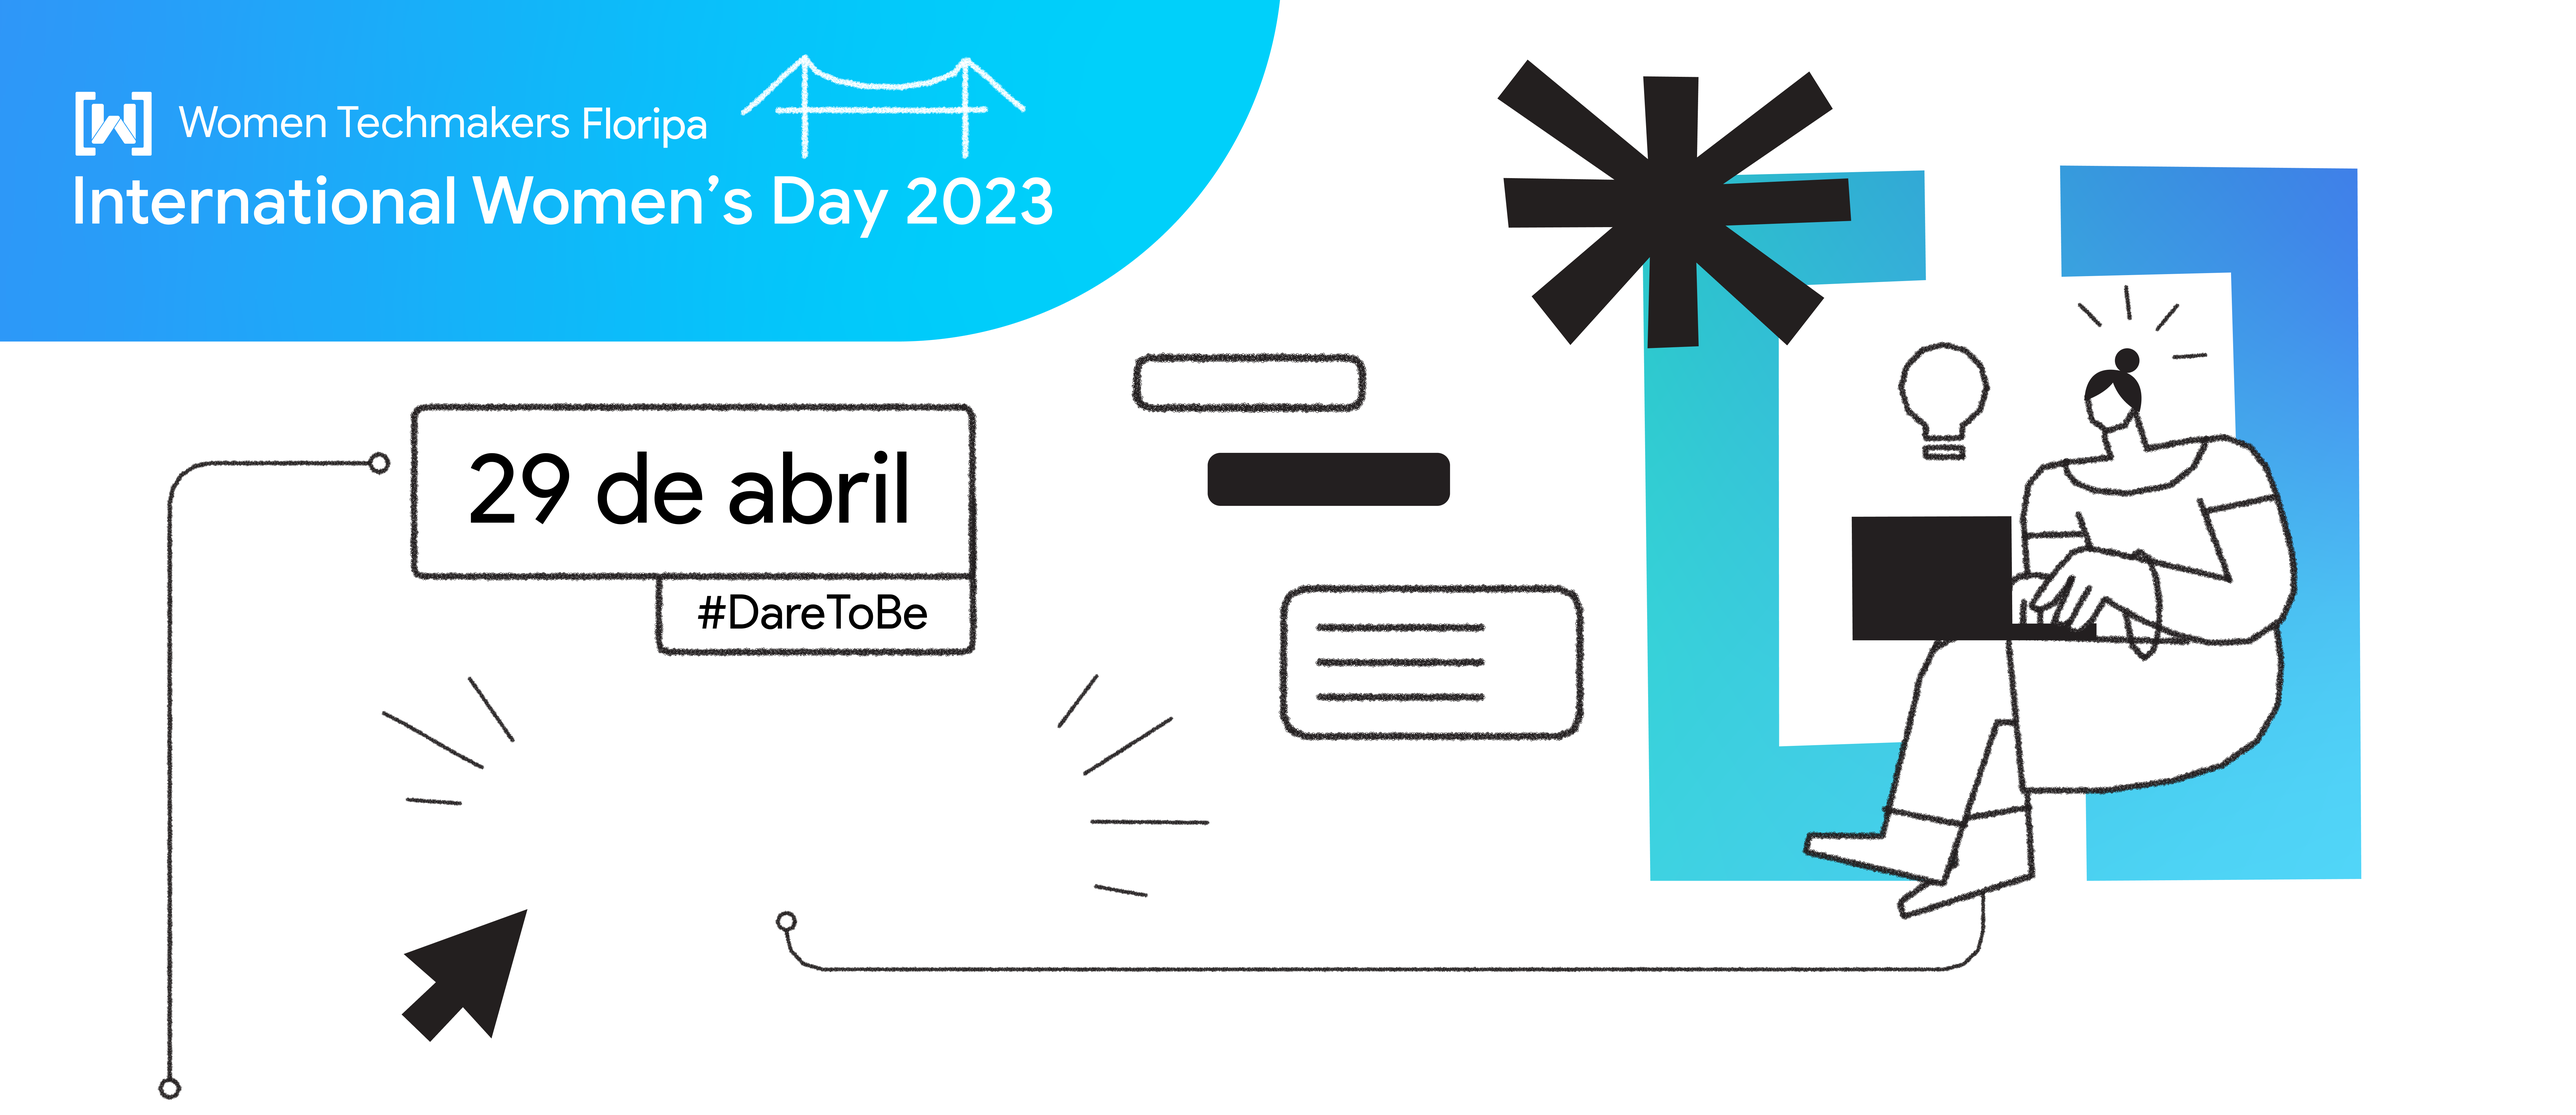
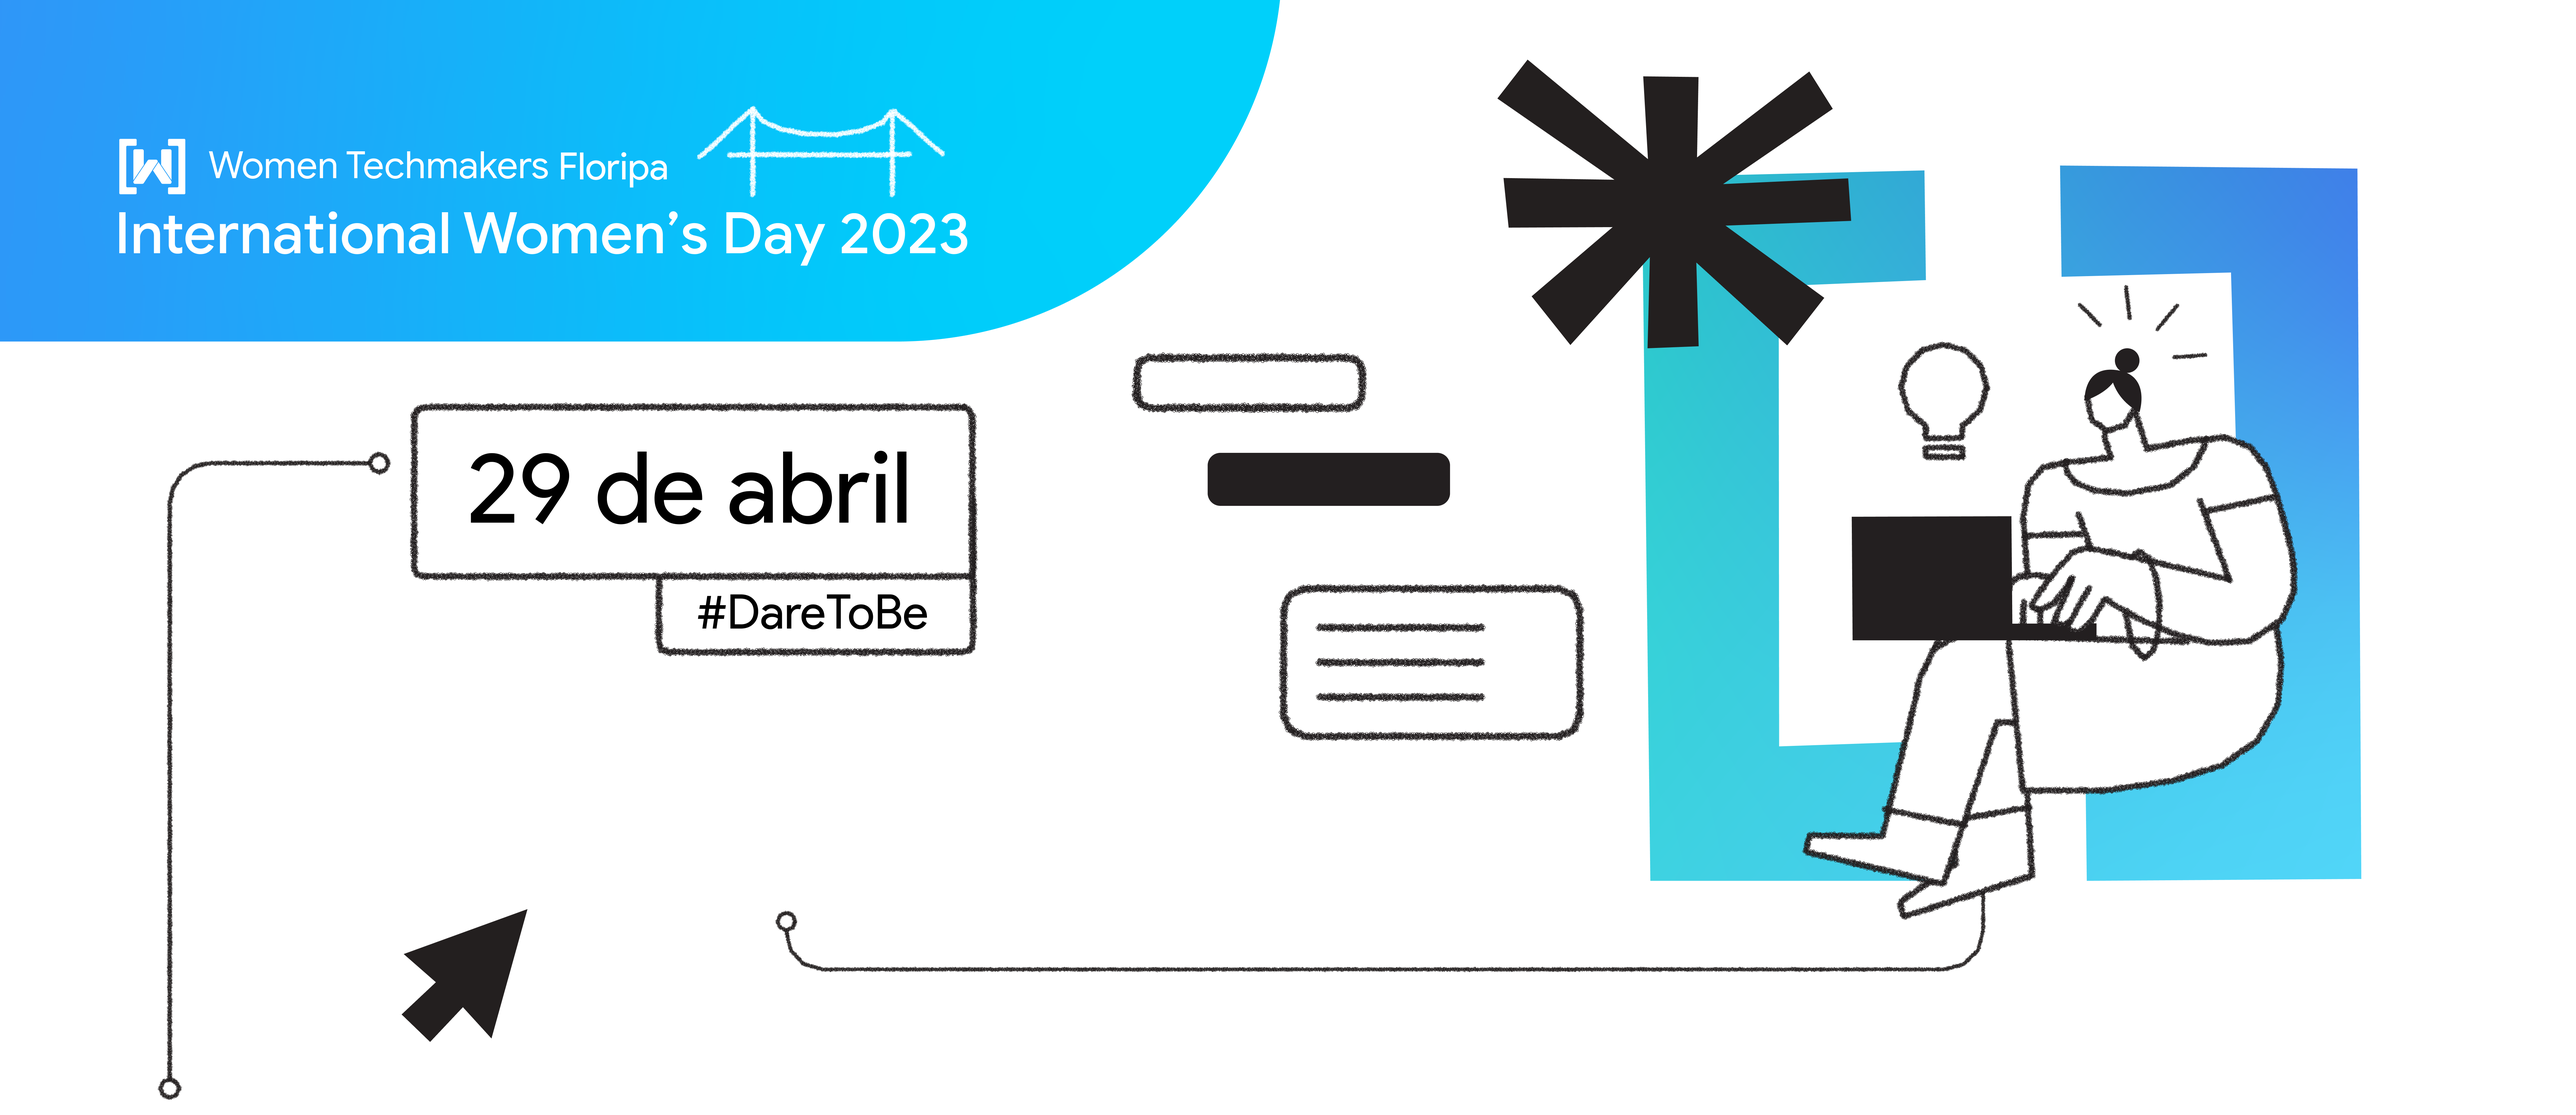
Vários ajustes

Changed region(s): [[0.0312, 0.0624, 0.4062, 0.2494], [0.4375, 0.717, 0.4688, 0.7482], [0.1562, 0.6547, 0.1875, 0.6859]]

diff --git a/src/app/home/home.component.html b/src/app/home/home.component.html
@@ -3,8 +3,11 @@
   <!--Intro Section-->
   <section class="view intro-1">
     <div class="full-bg-img flex-center">
+      <img class="banner-desktop" src="../../../assets/img/banner.png">
+      <img class="banner-mobile" src="../../../assets/img/banner-mobile.png">
       <div class="container text-center banner-title">
-        <a *ngIf="config?.ticketURL" target="_blank" rel="noopener" [href]="config?.ticketURL" class="btn btn-primary btn-lg" rel="nofollow">Garanta seu ingresso agora</a>
+        <a *ngIf="config?.ticketURL" target="_blank" rel="noopener" [href]="config?.ticketURL"
+          class="btn btn-primary btn-lg" rel="nofollow">Garanta seu ingresso agora</a>
       </div>
     </div>
   </section>
@@ -16,24 +19,35 @@
 
   <!--Section: About-->
   <section class="text-center">
-    <p> O <strong>{{ config?.eventName }}</strong> será um evento presencial da área de tecnologia que ocorrerá em Florianópolis no dia <strong>29/04/2023</strong>. 
-      <br/>
+    <p> O <strong>{{ config?.eventName }}</strong> será um evento presencial da área de tecnologia que ocorrerá em
+      Florianópolis no dia <strong>29/04/2023</strong>.
+      <br />
       As pessoas organizadoras envolvidas são dos capítulos: {{ config?.groupName}}.
-      <br/>
-      Nós da organização, temos o compromisso de realizar um evento diverso, inclusivo e que será acessível a todos os públicos. 
-      <br/>
-      Teremos um <a target="_blank" rel="noopener" href="http://gdg.rocks/codigodeconduta">código de conduta</a> a ser seguido, com zero tolerância às práticas de racismo, sexismo, capacitismo ou qualquer discriminação de gênero e sexualidade. &nbsp;&nbsp;&nbsp;&nbsp;
+      <br />
+      Nós da organização, temos o compromisso de realizar um evento diverso, inclusivo e que será acessível a todos os
+      públicos.
+      <br />
+      Teremos um <a routerLink="/code-of-conduct">código de conduta</a> a ser seguido, com zero tolerância às práticas de racismo,
+      sexismo, capacitismo ou qualquer discriminação de gênero e sexualidade. &nbsp;&nbsp;&nbsp;&nbsp;
     </p>
   </section>
-  <section class="text-center" *ngIf="config?.eventGoogle || config?.eventFacebook || config?.eventTwitter || config?.eventInstagram">
+  <section class="text-center"
+    *ngIf="config?.eventGoogle || config?.eventFacebook || config?.eventTwitter || config?.eventInstagram">
     <!--Social buttons-->
     <div class="social-section mb-3">
       <h5 class="title mt-3 mb-4">Nos siga nas redes sociais para mais atualizações</h5>
       <ul>
-        <li *ngIf="config?.eventGoogle"><a class="btn-social-all" href="https://plus.google.com/{{ config?.eventGoogle }}" title="Google+" target="_blank" rel="noopener"><i class="fa fa-google-plus"></i></a></li>
-        <li *ngIf="config?.eventFacebook"><a class="btn-social-all" href="https://www.facebook.com/{{ config?.eventFacebook }}" title="Facebook" target="_blank" rel="noopener"><i class="fa fa-facebook"></i></a></li>
-        <li *ngIf="config?.eventTwitter"><a class="btn-social-all" href="https://twitter.com/{{ config?.eventTwitter }}" title="Twitter" target="_blank" rel="noopener"><i class="fa fa-twitter"></i></a></li>
-        <li *ngIf="config?.eventInstagram"><a class="btn-social-all" href="https://www.instagram.com/{{ config?.eventInstagram }}" title="Instagram" target="_blank" rel="noopener"><i class="fa fa-instagram"></i></a></li>
+        <li *ngIf="config?.eventGoogle"><a class="btn-social-all"
+            href="https://plus.google.com/{{ config?.eventGoogle }}" title="Google+" target="_blank" rel="noopener"><i
+              class="fa fa-google-plus"></i></a></li>
+        <li *ngIf="config?.eventFacebook"><a class="btn-social-all"
+            href="https://www.facebook.com/{{ config?.eventFacebook }}" title="Facebook" target="_blank"
+            rel="noopener"><i class="fa fa-facebook"></i></a></li>
+        <li *ngIf="config?.eventTwitter"><a class="btn-social-all" href="https://twitter.com/{{ config?.eventTwitter }}"
+            title="Twitter" target="_blank" rel="noopener"><i class="fa fa-twitter"></i></a></li>
+        <li *ngIf="config?.eventInstagram"><a class="btn-social-all"
+            href="https://www.instagram.com/{{ config?.eventInstagram }}" title="Instagram" target="_blank"
+            rel="noopener"><i class="fa fa-instagram"></i></a></li>
       </ul>
     </div>
     <!--/.Social buttons-->
@@ -46,13 +60,17 @@
   <!--Section: Featured Speakers-->
   <section class="section team-section" *ngIf="(speakers$ | async)?.length > 0 && speakers$ | async as speakers">
     <div class="row text-center">
-      <div *ngFor="let speaker of speakers" class="col-lg-3 col-md-6 mb-r" style="padding-left: 40px; padding-right: 40px; margin: 0 auto;">
+      <div *ngFor="let speaker of speakers" class="col-lg-3 col-md-6 mb-r"
+        style="padding-left: 40px; padding-right: 40px; margin: 0 auto;">
         <div class="avatar" title="{{ speaker.name }}" alt="{{ speaker.name }}">
-          <img *ngIf="!speaker.photoURL" class="rounded-circle z-depth-1" style="background-image: url('../../../assets/img/user-default.png')">
-          <img *ngIf="speaker.photoURL" class="rounded-circle z-depth-1" [ngStyle]="{'background-image': 'url(' + speaker.photoURL + ')'}">
+          <img *ngIf="!speaker.photoURL" class="rounded-circle z-depth-1"
+            style="background-image: url('../../../assets/img/user-default.png')">
+          <img *ngIf="speaker.photoURL" class="rounded-circle z-depth-1"
+            [ngStyle]="{'background-image': 'url(' + speaker.photoURL + ')'}">
         </div>
         <h4><span [innerHTML]="speaker.name"></span></h4>
-        <h6><span [innerHTML]="speaker.title"></span><br /><strong *ngIf="speaker.company">@&nbsp;<span [innerHTML]="speaker.company"></span></strong></h6>
+        <h6><span [innerHTML]="speaker.title"></span><br /><strong *ngIf="speaker.company">@&nbsp;<span
+              [innerHTML]="speaker.company"></span></strong></h6>
       </div>
     </div>
   </section>
@@ -70,7 +88,10 @@
         <p [innerHTML]="config?.venueDescription"></p>
       </div>
       <div class="col-md-6">
-        <iframe src="https://www.google.com/maps/embed?pb=!1m18!1m12!1m3!1d3539.007531600082!2d-48.51678368543114!3d-27.50014122458118!2m3!1f0!2f0!3f0!3m2!1i1024!2i768!4f13.1!3m3!1m2!1s0x9527468b52090801%3A0xb067ed420bbae02b!2sFaculdade%20Cesusc%20(Sede%20SC%20401)!5e0!3m2!1spt-BR!2sbr!4v1679958377031!5m2!1spt-BR!2sbr" width="600" height="450" style="border:0;" allowfullscreen="" loading="lazy" referrerpolicy="no-referrer-when-downgrade"></iframe>
+        <iframe
+          src="https://www.google.com/maps/embed?pb=!1m18!1m12!1m3!1d3539.007531600082!2d-48.51678368543114!3d-27.50014122458118!2m3!1f0!2f0!3f0!3m2!1i1024!2i768!4f13.1!3m3!1m2!1s0x9527468b52090801%3A0xb067ed420bbae02b!2sFaculdade%20Cesusc%20(Sede%20SC%20401)!5e0!3m2!1spt-BR!2sbr!4v1679958377031!5m2!1spt-BR!2sbr"
+          width="100%" height="450" style="border:0;" allowfullscreen="" loading="lazy"
+          referrerpolicy="no-referrer-when-downgrade"></iframe>
       </div>
     </div>
   </section>
@@ -85,11 +106,12 @@
     <h5>Seja legal, respeite e colabore com as pessoas.</h5>
     <p>{{ config?.eventName }} é um evento dedicado a prover um ambiente livre de assédios para todes.</p>
     <p class="pb-5">
-      Antes de participar, reveja o <a href="http://gdg.rocks/codigodeconduta" target="_blank" rel="noopener">Código
+      Antes de participar, reveja o <a routerLink="/code-of-conduct">Código
         de conduta do {{ config?.eventName }}</a>.
       <br />Este Código de Conduta se aplica a todes que irão participar, palestrar, organizar fornecer ou se envolver
       de qualquer forma ao {{ config?.eventName }}.
-      <br />Por favor <a href="mailto:{{ config?.eventEmail }}?subject=Code of Conduct - {{ config?.eventName }}" target="_blank" rel="noopener">entre em contato conosco</a> se tiver alguma dúvida.
+      <br />Por favor <a href="mailto:{{ config?.eventEmail }}?subject=Code of Conduct - {{ config?.eventName }}"
+        target="_blank" rel="noopener">entre em contato conosco</a> se tiver alguma dúvida.
     </p>
   </div>
   <!--Section: CoC-->
@@ -101,7 +123,8 @@
   <!--Section: Pricing-->
   <section class="section" *ngIf="(tickets$ | async)?.length > 0 && tickets$ | async as tickets">
     <div class="row pt-3">
-      <div class="mb-r" *ngFor="let ticket of tickets; let i = index;" [ngClass]="tickets.length > 3 ? 'col-lg-3' : 'col-lg-4'" style="padding: 20px 40px; margin: 0 auto;">
+      <div class="mb-r" *ngFor="let ticket of tickets; let i = index;"
+        [ngClass]="tickets.length > 3 ? 'col-lg-3' : 'col-lg-4'" style="padding: 20px 40px; margin: 0 auto;">
         <div class="card" *ngIf="ticket.active">
           <div class="card-header white-text text-center" [ngClass]="styles[i]">
             <h1 class="dollar">{{ ticket.price }}</h1>
@@ -140,7 +163,8 @@
                 &nbsp;
               </span>
               <div class="text-center ticket-button">
-                <a target="_blank" rel="noopener" [href]="config?.ticketURL" class="btn btn-primary waves-light" rel="nofollow">Buy Ticket</a>
+                <a target="_blank" rel="noopener" [href]="config?.ticketURL" class="btn btn-primary waves-light"
+                  rel="nofollow">Buy Ticket</a>
               </div>
             </div>
           </div>
@@ -149,7 +173,7 @@
     </div>
 
   </section>
-  <!--/Section: Pricing-->  
+  <!--/Section: Pricing-->
   <div class="divider-new pt-5" *ngIf="(sponsors$ | async)?.length > 0">
     <h2 class="h2-responsive">Patrocínio</h2>
   </div>
@@ -167,7 +191,9 @@
           <ng-container *ngIf="level.id === sponsor.level">
             <span class="col-md-6" style="padding: 20px 40px; margin: 0 auto;">
               <a [href]="sponsor.websiteLink" target="_blank" rel="noopener">
-                <img [src]="sponsor.logoURL" class="sponsor-img" [ngStyle]="{'width': level.rank == 1 ? '400px' : level.rank == 2 ? '325px' : level.rank == 3 ? '240px' : level.rank == 4 ? '220px' : '160px' }"  title="{{ sponsor.name }}" alt="{{ sponsor.name }}" />
+                <img [src]="sponsor.logoURL" class="sponsor-img"
+                  [ngStyle]="{'width': level.rank == 1 ? '400px' : level.rank == 2 ? '325px' : level.rank == 3 ? '240px' : level.rank == 4 ? '220px' : '160px' }"
+                  title="{{ sponsor.name }}" alt="{{ sponsor.name }}" />
               </a>
             </span>
           </ng-container>

diff --git a/src/styles.scss b/src/styles.scss
@@ -2,21 +2,32 @@
 @import "./styles/delorean.scss";
 // @import "./styles/loading.scss";
 
-.intro-1 {
-  background: url("assets/img/banner-mobile.png") no-repeat;
-  background-size: cover;
-  height: 490px;
+.full-bg-img img{
+  width: 100%;
+}
 
-  @media screen and (min-width: 768px) {
-    background: url("assets/img/banner.png") no-repeat;
-    background-size: contain;
-    height: 40vh;
+.btn-lg{
+  padding: 1.2rem !important;
+}
+
+.intro-1{
+  top: 40px;
+}
+
+@media(max-width: 767px){
+  .banner-desktop{
+    display: none !important;
   }
+}
 
-  @media screen and (min-width: 1028px) {
-    background: url("assets/img/banner.png") no-repeat center center;
-    background-size: cover;
-    height: 100vh;
+@media(min-width: 767px){
+  .banner-mobile{
+    display: none !important;
+  }
+  
+  .container.text-center.banner-title{
+    text-align: left !important;
+    left: 22%;
   }
 }
 
@@ -35,17 +46,10 @@ body {
 
 .divider-new:before,
 .divider-new:after {
-  background-size: cover !important;
-
-  background: linear-gradient(
-    90deg,
-    rgba(204, 0, 0, 1) 0%,
-    rgba(215, 66, 6, 1) 20%,
-    rgba(227, 140, 12, 1) 40%,
-    rgba(238, 205, 17, 1) 60%,
-    rgba(21, 255, 40, 1) 80%,
-    rgba(21, 89, 255, 1) 100%
-  ) !important;
+  height: 3px !important;
+  background-size: contain !important;
+  background-image: url("assets/img/line.png") !important;
+  background-color: #fff !important;
 }
 
 .event-date {
@@ -56,14 +60,14 @@ body {
 }
 .banner-title {
   position: absolute;
-  bottom: 85px;
+  bottom: 55px;
 
   @media screen and (min-width: 768px) {
     bottom: 30px;
   }
 
   @media screen and (min-width: 1028px) {
-    bottom: 125px;
+    bottom: 22%;
   }
 
   h3 {

diff --git a/src/index.html b/src/index.html
@@ -34,16 +34,6 @@
   <meta name="twitter:title" content="IWD Floripa 2023">
   <meta name="twitter:description" content="A tech conference carefully crafted for you by your GDG community! All about Android, Web, and Cloud from the world experts!">
   <meta name="twitter:image" content="assets/img/banner.png">
-
-  <!-- Google Tag Manager -->
-  <script>
-    (function(w,d,s,l,i){w[l]=w[l]||[];w[l].push({'gtm.start':
-    new Date().getTime(),event:'gtm.js'});var f=d.getElementsByTagName(s)[0],
-    j=d.createElement(s),dl=l!='dataLayer'?'&l='+l:'';j.async=true;j.src=
-    'https://www.googletagmanager.com/gtm.js?id='+i+dl;f.parentNode.insertBefore(j,f);
-    })(window,document,'script','dataLayer','GTM-XXXXXXX');
-  </script>
-  <!-- End Google Tag Manager -->
 </head>
 
 <body>

diff --git a/src/app/footer/footer.component.html b/src/app/footer/footer.component.html
@@ -42,8 +42,8 @@
       <div class="col-lg-2 col-md-6 ml-auto">
         <h5 class="title font-weight-bold mt-3 mb-4">FAQ</h5>
         <ul>
-          <li><a href="http://gdg.rocks/codigodeconduta" target="_blank" rel="noopener">Código de Conduta</a></li>
-          <li><a href="https://meetup.com/pro/gdg" target="_blank" rel="noopener">Google Developer Groups</a></li>
+          <li><a routerLink="/code-of-conduct">Código de Conduta</a></li>
+          <li><a href="https://gdg.community.dev/" target="_blank" rel="noopener">Google Developer Groups</a></li>
         </ul>
       </div>
 
